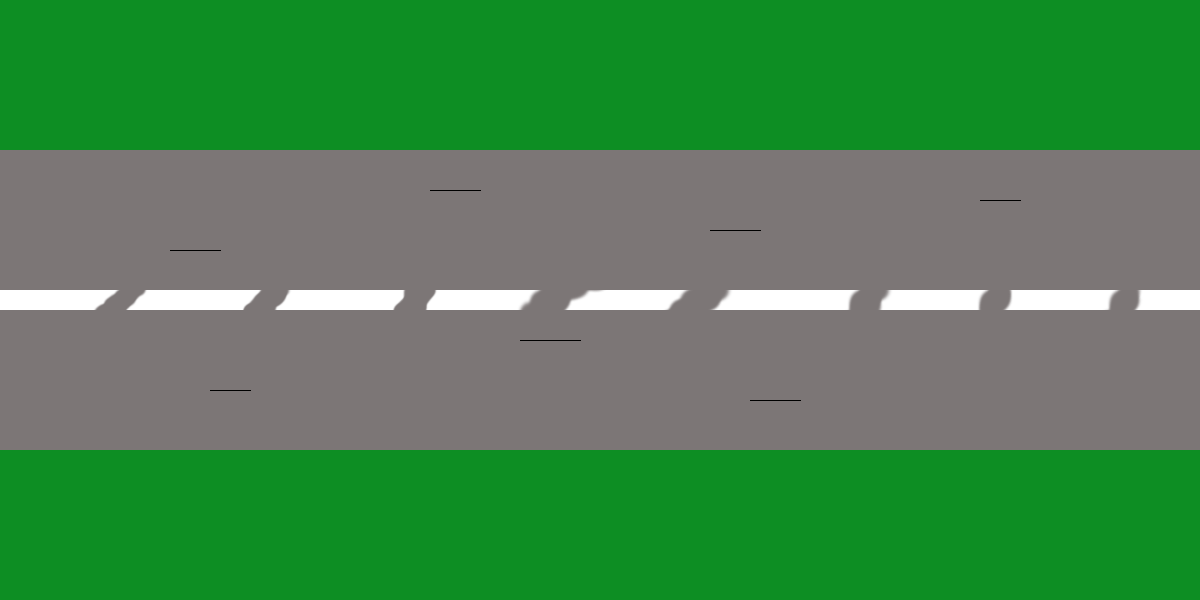
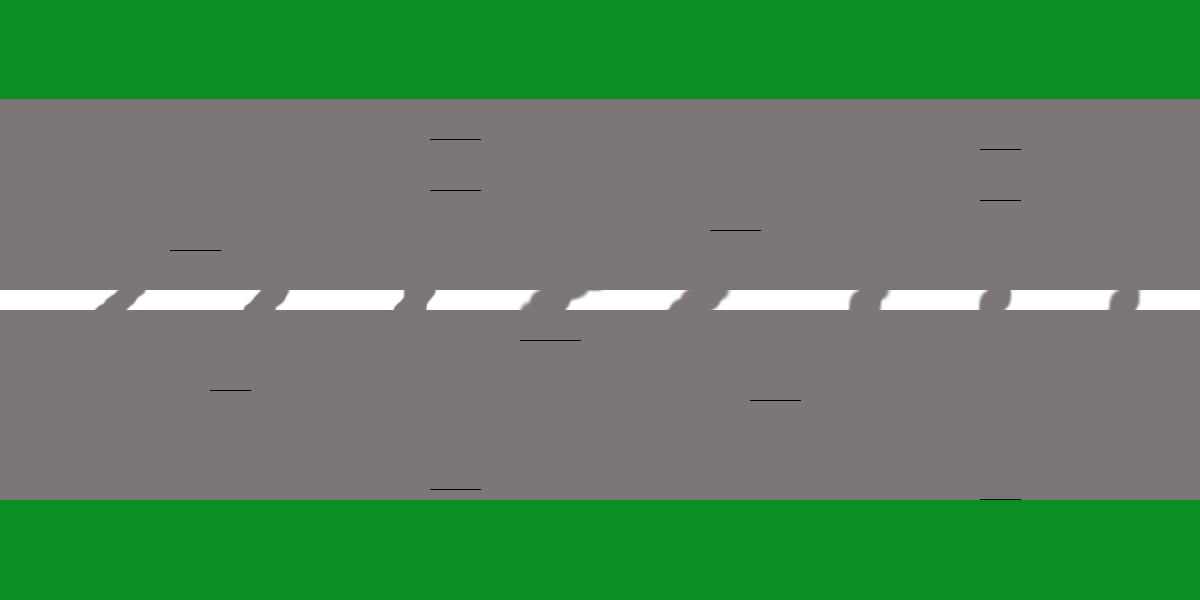
Add class Player and resizing images

Changed region(s): [[0.0, 0.15, 1.0, 0.27], [0.0, 0.75, 1.0, 0.84]]

diff --git a/src/arx/game/object/Road.java b/src/arx/game/object/Road.java
@@ -3,16 +3,32 @@ package arx.game.object;
 import java.awt.Graphics;
 import java.awt.Graphics2D;
 import java.awt.Image;
+import java.awt.event.ActionEvent;
+import java.awt.event.ActionListener;
 
 import javax.swing.ImageIcon;
 import javax.swing.JPanel;
+import javax.swing.Timer;
 
-public class Road extends JPanel{
+public class Road extends JPanel implements ActionListener {
 	
-	Image bg_road = new ImageIcon("res/road.png").getImage();
+	@Override
+	public void actionPerformed(ActionEvent e) {
+		carPlayer.move();
+		repaint();
+	}
+	
+	public Road() {
+		mainTimer.start();
+	}
+
+	Timer mainTimer		= new Timer(20, this);
+	Image bg_road		= new ImageIcon("res/road.png").getImage();
+	Player carPlayer	= new Player();
 	
 	public void paint(Graphics g) {
 		g = (Graphics2D) g;
-		g.drawImage(bg_road, 0, 0, null);
+		g.drawImage(bg_road, carPlayer.layerOne, 0, null);
+		g.drawImage(carPlayer.carImg, carPlayer.x, carPlayer.y, null);
 	}
 }

diff --git a/src/arx/game/object/Player.java b/src/arx/game/object/Player.java
@@ -1,0 +1,23 @@
+package arx.game.object;
+
+import java.awt.Image;
+
+import javax.swing.ImageIcon;
+
+public class Player {
+	
+	int speed			= 10;
+	int acceleration	= 0;
+	int distance		= 0;
+	int layerOne		= 0;
+	int x				= 30;
+	int y				= 280;
+	
+	
+	Image carImg = new ImageIcon("res/car.png").getImage();
+	
+	public void move() {
+		distance += speed;
+		layerOne -= speed;
+	}
+}
